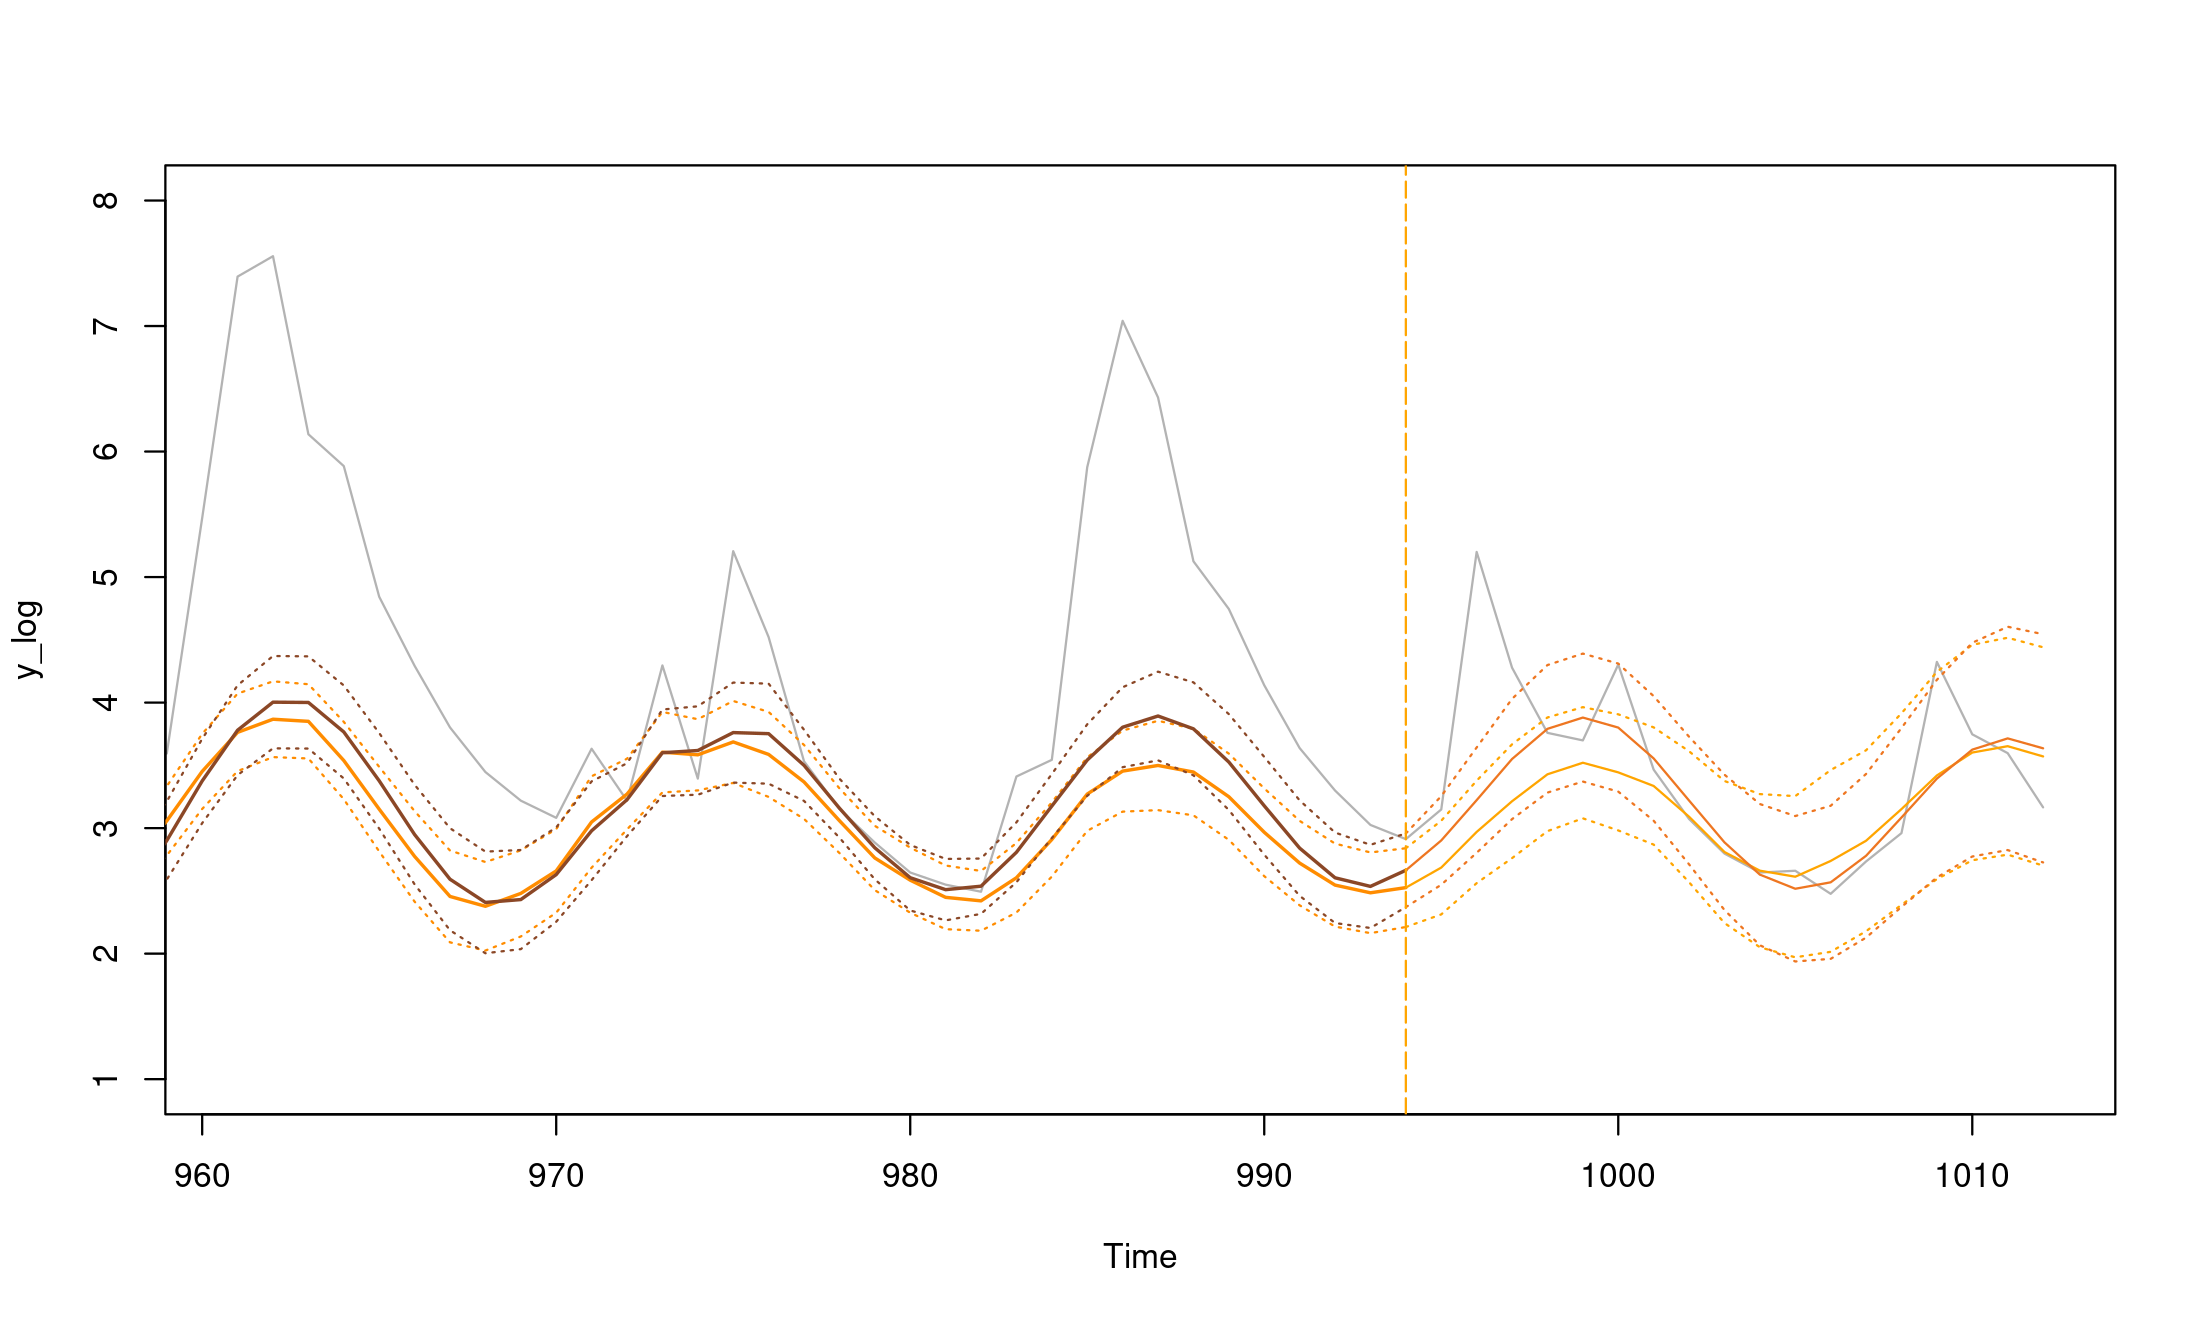
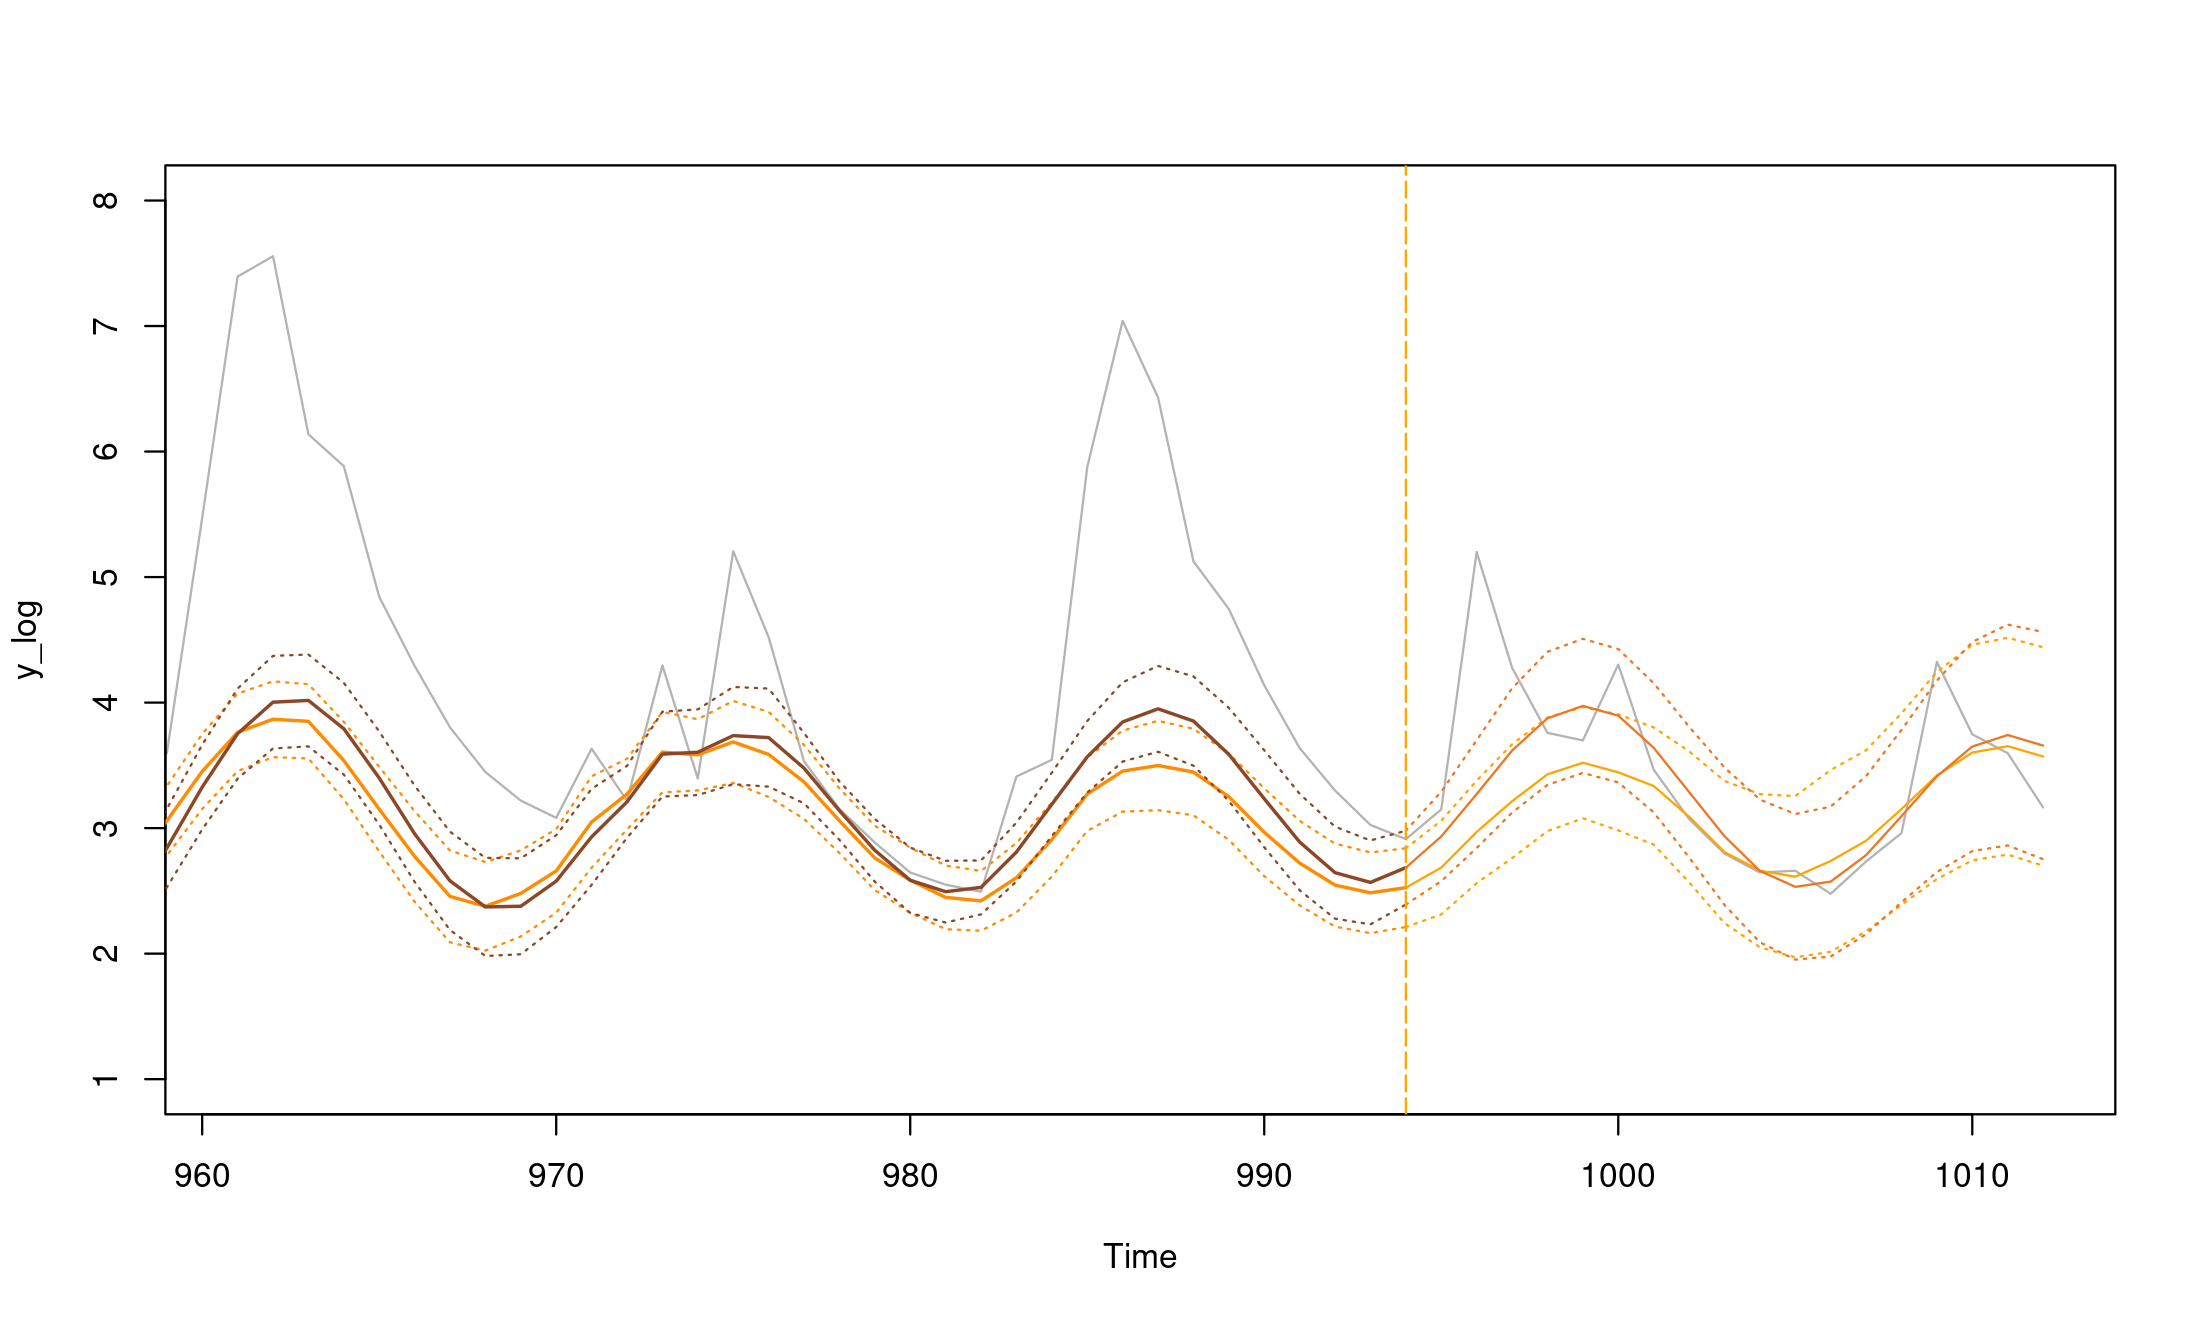
analysis: refresh LDVB outputs with standard profile run

diff --git a/analysis/manuscript/outputs/tables/manuscript_repro_tracker.md b/analysis/manuscript/outputs/tables/manuscript_repro_tracker.md
@@ -1,7 +1,7 @@
 # Manuscript Reproducibility Tracker
 
-Generated: 2026-03-03 00:30:55
-Profile: quick
+Generated: 2026-03-03 00:55:42
+Profile: standard
 Seed: 20260302
 
 ## Artifact Status
@@ -10,14 +10,14 @@ Seed: 20260302
 - [reproduced] `ex2_run_summary` -> `analysis/manuscript/outputs/logs/ex2_run_summary.txt` (Example 2 textual outputs). Includes sigma summary and ISVB/LDVB runtime diagnostics.
 - [reproduced] `fig_ex2quant_ldvb` -> `analysis/manuscript/outputs/figures/ex2quant_ldvb.png` (new: fig ex2quant LDVB counterpart). LDVB counterpart of ex2quant with DQLM/exDQLM overlays and gamma histogram.
 - [reproduced] `fig_ex2checks_ldvb` -> `analysis/manuscript/outputs/figures/ex2checks_ldvb.png` (new: fig ex2checks LDVB counterpart). LDVB counterpart of ex2checks using exdqlmDiagnostics.
-- [reproduced] `tab_ex2_df_scan_ldvb` -> `analysis/manuscript/outputs/tables/ex2_df_scan_kl_ldvb.csv` (new: Example 2 discount-factor KL selection (LDVB)). Best pair in this run: (0.90, 0.85)
+- [reproduced] `tab_ex2_df_scan_ldvb` -> `analysis/manuscript/outputs/tables/ex2_df_scan_kl_ldvb.csv` (new: Example 2 discount-factor KL selection (LDVB)). Best pair in this run: (0.90, 0.95)
 - [reproduced] `tab_ex2_diagnostics_ldvb` -> `analysis/manuscript/outputs/tables/ex2_diagnostics_summary_ldvb.csv` (new: Example 2 diagnostic narrative (LDVB)). LDVB counterpart computed with exdqlmDiagnostics.
 - [reproduced] `ex3_run_summary` -> `analysis/manuscript/outputs/logs/ex3_run_summary.txt` (Example 3 textual outputs). Includes lambda optimization table and median.kt.
 - [reproduced] `ex3_run_summary_ldvb` -> `analysis/manuscript/outputs/logs/ex3_run_summary_ldvb.txt` (new: Example 3 LDVB textual outputs). LDVB counterpart including lambda scan and runtime summaries.
 - [reproduced] `fig_ex3quantcomps_ldvb` -> `analysis/manuscript/outputs/figures/ex3quantcomps_ldvb.png` (new: fig ex3quant LDVB counterpart). LDVB counterpart for Example 3 quantile/components plot.
 - [reproduced] `fig_ex3zetapsi_ldvb` -> `analysis/manuscript/outputs/figures/ex3zetapsi_ldvb.png` (new: fig ex3tftheta LDVB counterpart). LDVB transfer-function theta component plots.
 - [reproduced] `fig_ex3forecast_ldvb` -> `analysis/manuscript/outputs/figures/ex3forecast_ldvb.png` (new: fig ex3forecast LDVB counterpart). LDVB counterpart for the 18-step forecast figure.
-- [reproduced] `tab_ex3_lambda_scan_ldvb` -> `analysis/manuscript/outputs/tables/ex3_lambda_scan_kl_ldvb.csv` (new: Example 3 lambda selection output (LDVB)). Best LDVB lambda in this run=0.850
+- [reproduced] `tab_ex3_lambda_scan_ldvb` -> `analysis/manuscript/outputs/tables/ex3_lambda_scan_kl_ldvb.csv` (new: Example 3 lambda selection output (LDVB)). Best LDVB lambda in this run=0.900
 - [reproduced] `tab_ex3_diagnostics_ldvb` -> `analysis/manuscript/outputs/tables/ex3_diagnostics_summary_ldvb.csv` (new: tab ex3 LDVB counterpart). LDVB counterpart diagnostics table generated with exdqlmDiagnostics.
 - [reproduced] `tab_api_migration_map` -> `analysis/manuscript/outputs/tables/manuscript_api_migration_map.csv` (global code migration). Maps deprecated manuscript calls to current package API.
 
@@ -28,8 +28,8 @@ Seed: 20260302
 - ldvb_note: Added ISVB vs LDVB comparison figure for dynamic Sunspots example.
 - backend: MCMC runs use C++ backend options exdqlm.use_cpp_mcmc=TRUE and exdqlm.cpp_mcmc_mode='fast'.
 - ex2: Used explicit dlm->exdqlm conversion because as.exdqlm(dlm) errors in current package.
-- ex2_ldvb: Sunspots LDVB KL search best seasonal discount factor=0.85 for this run profile.
-- ex3_ldvb: Best lambda by KL for LDVB in this run profile: 0.850.
+- ex2_ldvb: Sunspots LDVB KL search best seasonal discount factor=0.95 for this run profile.
+- ex3_ldvb: Best lambda by KL for LDVB in this run profile: 0.900.
 - coverage: Targeted run; requested targets: ex2quant_ldvb, ex2checks_ldvb, ex2tables_ldvb, ex3quantcomps_ldvb, ex3zetapsi_ldvb, ex3forecast_ldvb, ex3tables_ldvb.
 - timing: Exact runtime printouts in manuscript are historical and expected to differ.
 - scope: Main manuscript .tex was not modified; all updates are isolated under analysis/manuscript.
